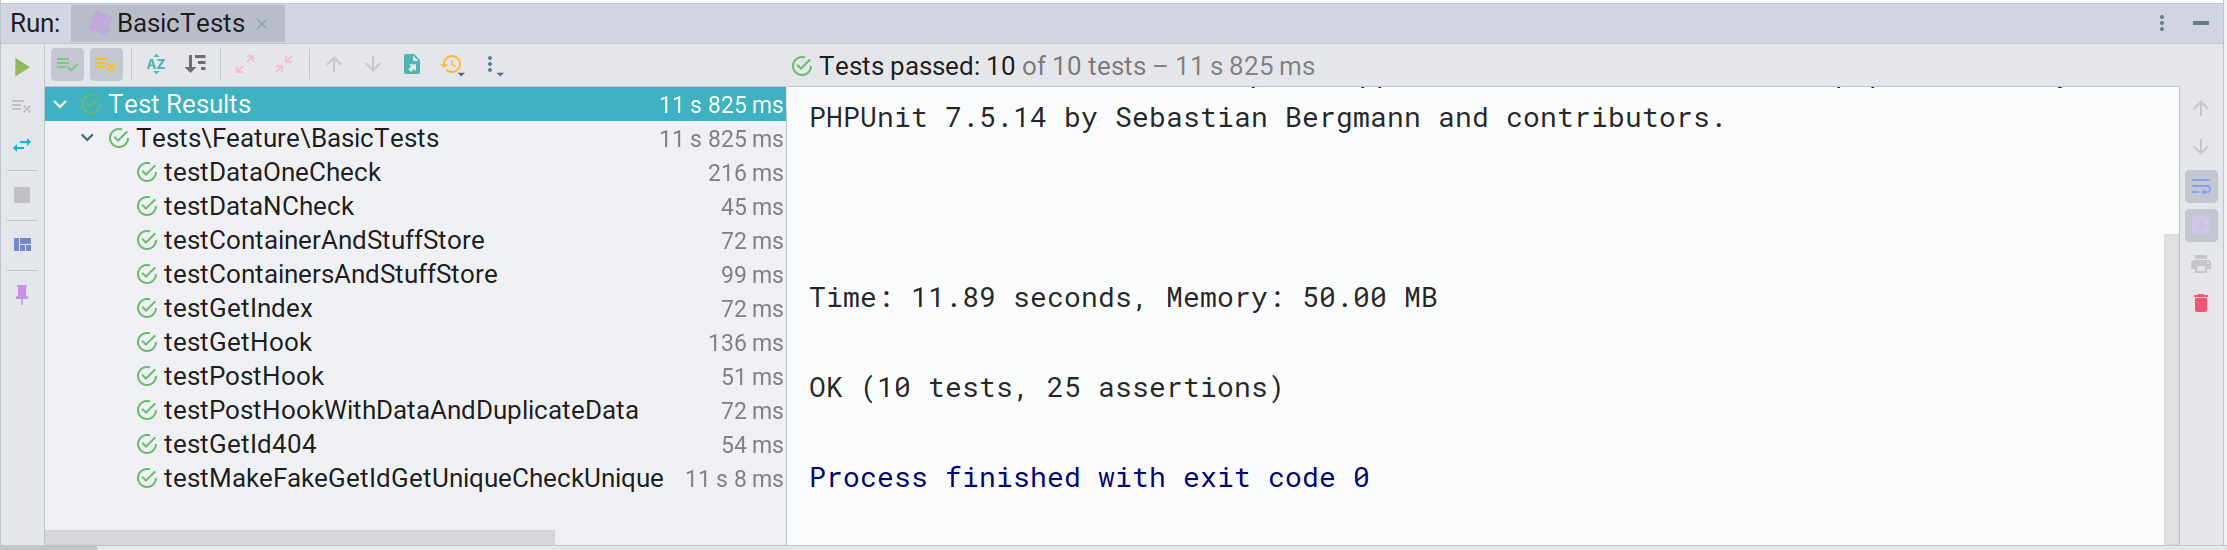
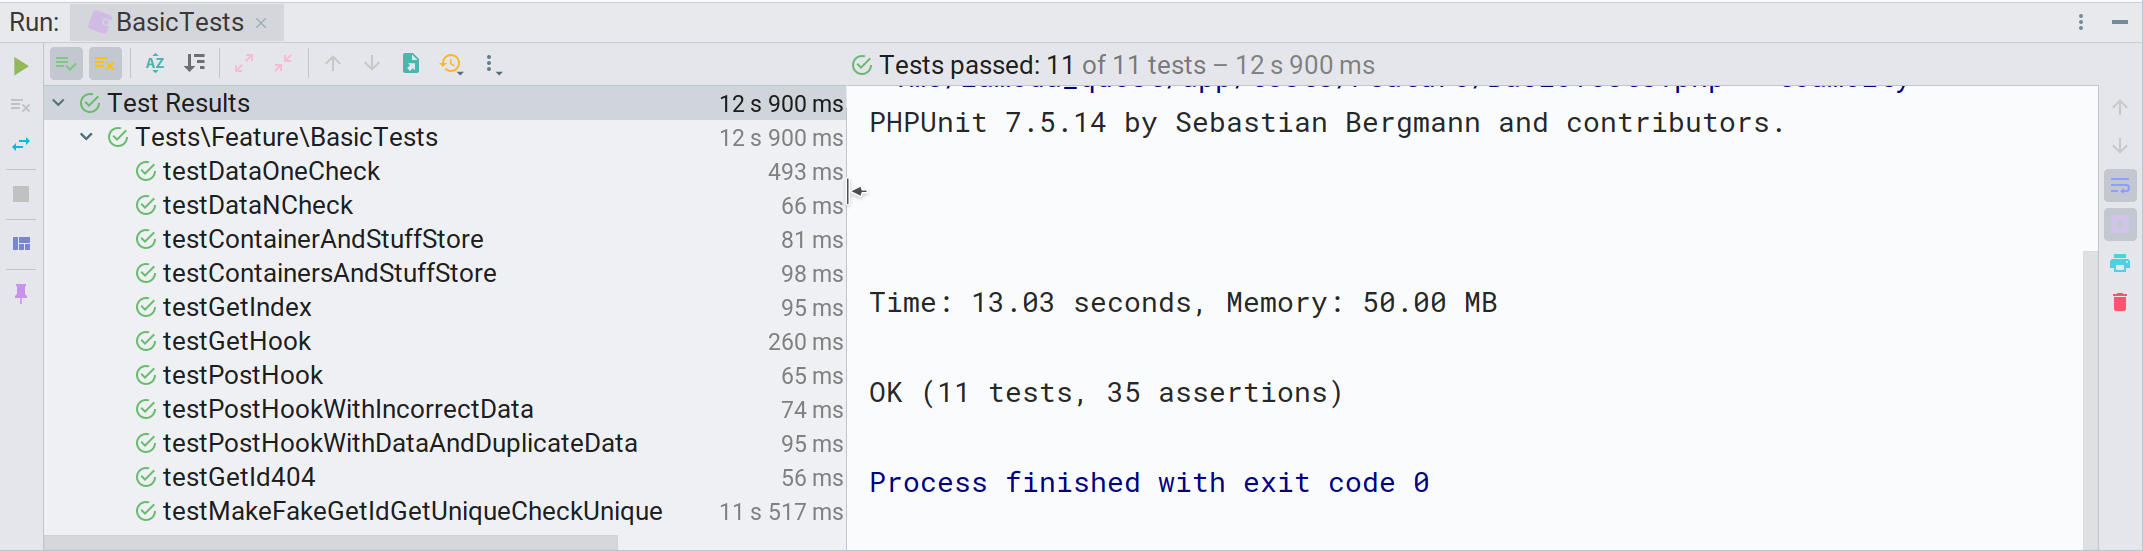
add 422 http code, add test 422, api.yml correction

diff --git a/app/Models/Service.php b/app/Models/Service.php
@@ -35,6 +35,7 @@ class Service extends Model
                 // Проверка корректности структуры
                 if ($report = self::inputCheckStructure($data[$key])) {
                     $this->report = $report;
+                    $this->httpCode = 422;
                     return $this;
                 }
 
@@ -86,6 +87,7 @@ class Service extends Model
             // Проверка корректности структуры
             if ($report = self::inputCheckStructure($data)) {
                 $this->report = $report;
+                $this->httpCode = 422;
                 return $this;
             }
 
@@ -148,7 +150,7 @@ class Service extends Model
         $report = null;
 
         // Проверка существования ключей входящего массива при необходимости расширить проверкой ключей массива товаров
-        if (!isset($data['id'], $data['name'], $data['items'])) {
+        if (!isset($data['id'], $data['name'], $data['items']) || !is_array($data['items'])) {
             $report = [
                 'success'           => false,
                 'description'       => '',

diff --git a/tests/Feature/BasicTests.php b/tests/Feature/BasicTests.php
@@ -110,6 +110,26 @@ class BasicTests extends TestCase
     }
 
     /**
+     * Проверка неуспешной записи нового контейнера по причине некорректной структуры данных
+     */
+    public function testPostHookWithIncorrectData()
+    {
+        $datas = [
+            ['id' => 1],
+            ['id' => 1, 'name' => 'julia'],
+            ['id' => 1, 'items' => 'some item'],
+            ['name' => 'julia', 'items' => 'some item'],
+            ['id' => 1, 'name' => 'julia', 'items' => 'some item'],
+        ];
+
+        foreach ($datas as $data) {
+            $response = $this->json('POST', '/hook', $data);
+            $response->assertJsonFragment(['success' => false]);
+            $response->assertStatus(422);
+        }
+    }
+
+    /**
      * Проверка корректности обработки POST запроса с передачей корректных данных
      * Проверка попытки записать дублирующиеся данные
      */

diff --git a/app/Http/Controllers/HookController.php b/app/Http/Controllers/HookController.php
@@ -35,8 +35,11 @@ class HookController extends Controller
         // Сохранение элементов
         $service = $service->store();
 
+        // Подготовка кода ответа
+        $httpCode = $service->httpCode ?? 200;
+
         // Сериализует и отдает ответ
-        return response()->json($service->report);
+        return response()->json($service->report, $httpCode);
     }
 
     /**
